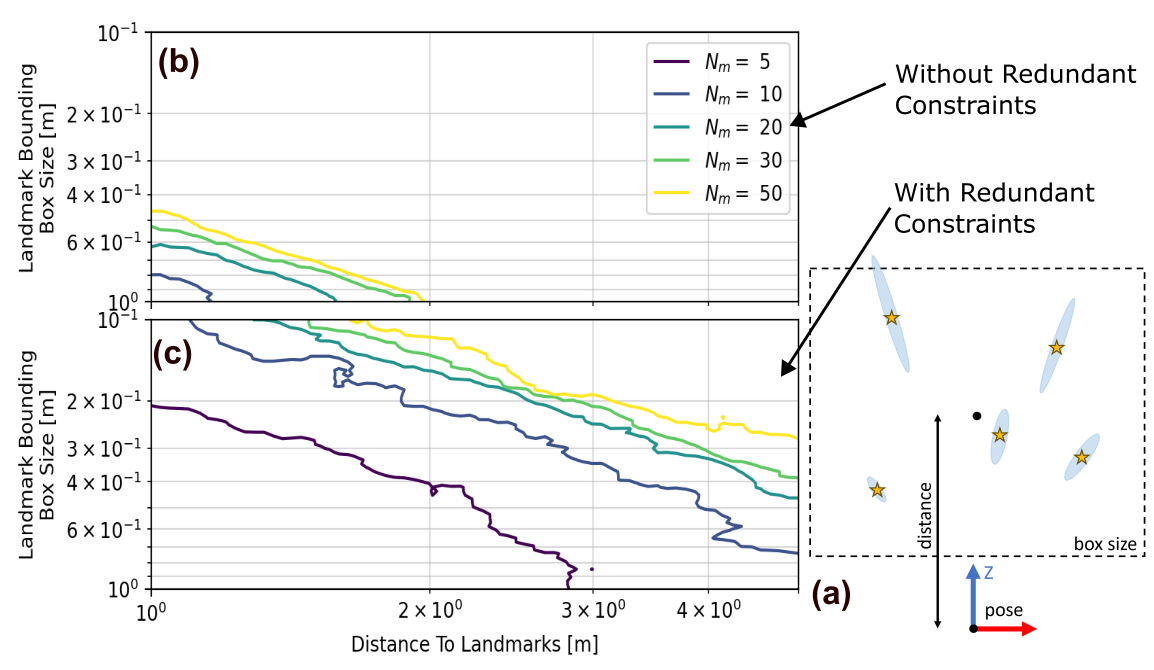
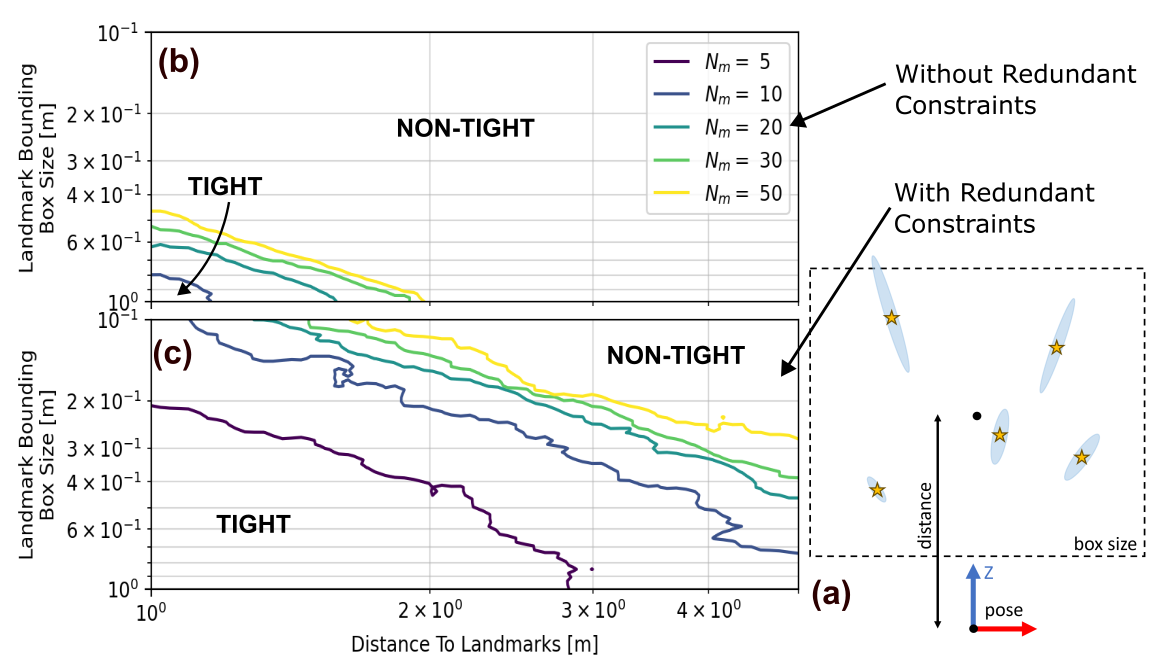
Partway through comments from second reviewer.

diff --git a/MatrixWeightedCert.tex b/MatrixWeightedCert.tex
@@ -41,6 +41,7 @@
 \newtheorem{lemma}[theorem]{Lemma}
 \newtheorem{definition}[theorem]{Definition}
 \newtheorem{corollary}[theorem]{Corollary}
+\newtheorem{proposition}[theorem]{Proposition}
 \newcommand{\llabel}[1]{\hypertarget{llineno:#1}{\linelabel{#1}}}
 \newcommand{\lref}[1]{\hyperlink{llineno:#1}{\ref*{#1}}}
 
@@ -61,7 +62,7 @@
 % <-this % stops a space
 %\thanks{Manuscript received April 19, 2021; revised August 16, 2021.}
 %<-this % stops a space   
-\thanks{Connor Holmes and Timothy D. Barfoot are with the University of Toronto Robotics Institute, University of Toronto, Toronto, Ontario, Canada, \texttt{connor.holmes@mail.utoronto.ca}, \texttt{tim.barfoot@utoronto.ca}.}}% 
+\thanks{Connor Holmes, Frederike D{\"u}mbgen, and Timothy D. Barfoot are with the University of Toronto Robotics Institute, University of Toronto, Toronto, Ontario, Canada, \texttt{connor.holmes@mail.utoronto.ca}, \texttt{tim.barfoot@utoronto.ca}.}}% 
 
 % The paper headers
 \markboth{Draft, July~2023}%
@@ -117,7 +118,7 @@ In Section \ref{sec:Simulations}, we provide an in-depth, empirical study of the
 
 \subsection{Related Work}
 
-There is a large range of problems for which certifiable methods already exist. To name a few, methods for robust state estimation \cite{yangCertifiablyOptimalOutlierRobust2023,yangTEASERFastCertifiable2021}, sensor calibration \cite{wiseCertifiablyOptimalMonocular2020,giamouConvexIterationDistanceGeometric2022}, inverse kinematics \cite{giamouConvexIterationDistanceGeometric2022}, image segmentation \cite{huAcceleratedInferenceMarkov2019}, pose-graph optimization \cite{rosenSESyncCertifiablyCorrect2019}, multiple-point-set registration \cite{chaudhuryGlobalRegistrationMultiple2015, iglesiasGlobalOptimalityPoint2020}, range-only localization \cite{dumbgenSafeSmoothCertified2023}, and range-aided SLAM \cite{papaliaCertifiablyCorrectRangeAided2023} have all been explored. 
+There is a large range of problems for which certifiable methods already exist. To name a few, methods for robust state estimation \cite{yangCertifiablyOptimalOutlierRobust2023,yangTEASERFastCertifiable2021}, sensor calibration \cite{wiseCertifiablyOptimalMonocular2020,giamouConvexIterationDistanceGeometric2022}, inverse kinematics \cite{giamouConvexIterationDistanceGeometric2022}, image segmentation \cite{huAcceleratedInferenceMarkov2019}, pose-graph optimization \cite{rosenSESyncCertifiablyCorrect2019}, multiple-point-set registration \cite{chaudhuryGlobalRegistrationMultiple2015, iglesiasGlobalOptimalityPoint2020}, range-only localization \cite{dumbgenSafeSmoothCertified2023}, planar SLAM \cite{liuConvexOptimizationBased2012}, and range-aided SLAM \cite{papaliaCertifiablyCorrectRangeAided2023} have all been explored. 
 
 Many papers have considered the conditions under which a given problem \emph{can} be certified. In particular, \cite{cifuentesLocalStabilitySemidefinite2022} shows that, under certain technical conditions, problems that have zero duality gap when unperturbed (no noise) continue to enjoy zero duality gap as long as the perturbation parameter is within a bound (i.e., the underlying problem has sufficiently low noise). For state-estimation problems, this bound is often (but not always) found empirically to be larger than noise levels encountered in practice \cite{rosenSESyncCertifiablyCorrect2019, tianDistributedCertifiablyCorrect2021, erikssonRotationAveragingStrong2018}.
 
@@ -196,13 +197,15 @@ Each edge, $(i,k) \in \EdgeSet_m $, represents a measurement of the $k^{th}$ lan
 \end{equation}
 where $ \bm{d}_{ik} $ represents the (raw) measurement of landmark $k$ from the $i^{th}$ pose variable, $\bm{m}_0^{k0}$ is the location of landmark $k$ in the global frame, $ \bm{g}(\cdot) $ is an invertible, smooth, nonlinear function, and $ \bm{\epsilon}_{d,ik} $ is a zero-mean error term having normal distribution with associated covariance matrix, $ \bm{\Sigma}_{d,ik} $. 
 
-It is often desirable to convert measurements $ \bm{d}_{ik} $ to a more convenient form by inverting the measurement model (if possible) and defining 
-\begin{align}
-	\tilde{\bm{m}}_i^{ki} &= \bm{g}^{-1}(\bm{d}_{ik})\in \mathbb{R}^3 \nonumber\\
-	&=\bm{T}_i \left[\bm{m}_0^{k0^T} ~ 1\right]^T + \bm{\epsilon}_{ik}\nonumber\\
-	&= \bm{C}_i\bm{m}_0^{k0} - \bm{t}_i + \bm{\epsilon}_{ik},
-\end{align}
-where $\bm{\epsilon}_{ik} $ represents approximately Gaussian, zero-mean noise. Regardless of whether $ \bm{\Sigma}_{d,ik} $ represents isotropic noise, the (linearly-transformed) covariance of $\bm{\epsilon}_{ik} $ is typically \textit{anisotropic} and is given by
+It is often desirable to convert measurements $ \bm{d}_{ik} $ to a more convenient form by inverting the measurement model (if possible) \rev{and defining the pseudo-measurement, $\tilde{\bm{m}}_i^{ki} = \bm{g}^{-1}(\bm{d}_{ik})$, with mean given by
+\begin{equation*}
+	\mathbb{E}(\tilde{\bm{m}}_i^{ki})={C}_i\bm{m}_0^{k0} - \bm{t}_i.
+\end{equation*} 
+The deviation from the mean, given by
+\begin{equation}
+	\bm{\epsilon}_{ik} = \tilde{\bm{m}}_i^{ki} - ({C}_i\bm{m}_0^{k0} - \bm{t}_i),
+\end{equation}
+is \emph{approximately} Gaussian with zero-mean.} Regardless of whether $ \bm{\Sigma}_{d,ik} $ represents isotropic noise, the (linearly-transformed) covariance of $\bm{\epsilon}_{ik} $ is typically \textit{anisotropic} and is given by
 \begin{equation}
 	\bm{\Sigma}_{ik} = \bm{G}^T \bm{\Sigma}_{d,ik} \bm{G},
 \end{equation}
@@ -257,8 +260,8 @@ Using the Lagrangian, we can define the (convex) dual of Problem \eqref{opt:QCQP
 \begin{equation}\label{opt:Dual}
 	\begin{array}{rl}
 		d^*=\max\limits_{\bm{H},\bm{\lambda},\bm{\rho}} &-\rho \\ 
-		s.t. & \bm{H} = \bm{Q} + \rho\bm{A}_0 +\sum\limits_{i=1}^{N_c} \lambda_i \bm{A}_i, \\
-		& \bm{H} \succeq \bm{0}.
+		s.t. & \bm{H}(\bm{\lambda},\bm{\rho}) = \bm{Q} + \rho\bm{A}_0 +\sum\limits_{i=1}^{N_c} \lambda_i \bm{A}_i, \\
+		& \bm{H}(\bm{\lambda},\bm{\rho}) \succeq \bm{0}.
 	\end{array}
 \end{equation}
 Note that the positive semidefinite condition is required to ensure that the minimization of the Lagrangian over $ \bm{z} $ is finite in \eqref{eqn:Lagrangian}. Now, we can also compute the dual of Problem \eqref{opt:Dual}, yielding an SDP relaxation of the original QCQP:
@@ -270,11 +273,21 @@ Note that the positive semidefinite condition is required to ensure that the min
 		& \bm{Z} \succeq \bm{0}.
 	\end{array}
 \end{equation}
+
+\rev{\subsection{Relaxation Tightness}}
 It is well known that if the optimal solution $ \bm{Z}^* $ satisfies $ \rank{\bm{Z}^*}=1 $ then the convex relaxation is \textit{tight} to the original QCQP.\footnote{Indeed, the addition of a constraint enforcing this condition to Problem \eqref{opt:SDP} would render it equivalent to Problem \eqref{opt:QCQP}, but the resulting optimization problem would be nonconvex.} In addition, this condition implies that the solution can be factorized as $ \bm{Z}^* = \bm{z}^* \bm{z}^{*T} $, where $ \bm{z}^* $ is the \textit{globally optimal} solution of Problem \eqref{opt:QCQP}. This result has been proved rigorously by \cite{cifuentesLocalStabilitySemidefinite2022}, among others, and depends on the inherent properties of the QCQP formulation and the fact that strong duality holds \emph{generically} for SDPs.\footnote{This is subject to the usual requirement of constraint qualification. \rev{In our case, we ensure that the SDPs that we solve satisfy the Linear Independent Constraint Qualification.}}
 
-\rev{ADD NOTE HERE ABOUT CORANK OF H}
+\rev{
+In the sequel, we will also make use of the fact that strict complementarity is a \emph{generic} property of SDPs \cite{alizadehComplementarityNondegeneracySemidefinite1997}. In our context, strict complementarity implies that
+\begin{equation}
+	 \mbox{rank}(\bm{Z}^*) + \mbox{rank}(\bm{H}^*)=n,
+\end{equation}
+where $\bm{H}^*$ represents the dual matrix at the optimal Lagrange multipliers $(\bm{\lambda}^*,\bm{\rho}^*)$.\footnote{We replace $\bm{H}(\bm{\lambda},\bm{\rho})$ with $\bm{H}$ when it is clear from the context.} In turn, the relaxation is tight if and only if $\mbox{corank}(\bm{H}^*)=1$. Empirically, we can study tightness by considering the largest eigenvalues of $\bm{Z}^*$ or by considering the smallest eigenvalues of $\bm{H}^*$.
+}
 
-This development provides two means of obtaining the globally optimal solutions to the QCQP:
+\rev{\subsection{Certification in Practice}}
+
+The preceding development provides two means of obtaining the globally optimal solutions to the QCQP:
 \begin{enumerate}
 	\item We can solve Problem \eqref{opt:SDP} directly and verify (numerically) that the rank of the optimal solution, $ \bm{Z}^* $, is equal to one. The factorization $ \bm{Z}^* = \bm{z}^* \bm{z}^{*T} $ yields the globally optimal solution, $ \bm{z}^* $, to the QCQP.
 	\item Given a candidate solution, $ \hat{\bm{z}} $, found via a fast, local-optimization method, we can determine the corresponding \textit{unique} Lagrange multipliers, $ \rho $ and $ \bm{\lambda} $, via first-order optimality conditions. Finally, if $ \bm{H} $ is positive semidefinite, then we have a \textit{certificate} of global optimality. For this reason, we refer to $ \bm{H} $ as the \textit{certificate matrix}.
@@ -287,11 +300,13 @@ Additionally, if it is known \textit{a priori} that strong duality holds for a g
 
 We once again stress that when redundant constraints are used to tighten SDP relaxations, these low-rank, fast SDP relaxation techniques are precluded.\footnote{This is due, in part, to a technical assumption in the Burer-Monteiro method that has not yet been fully explored in the literature. It may yet be possible to use these methods even with redundant constraints.} The use of redundant constraints also prevents fast certification of minima found via local methods, since the Lagrange multipliers, $ \bm{\lambda} $, are no longer uniquely determined by the first-order optimality conditions. In this case, certification effectively amounts to solving an SDP via interior-point methods, though there has been some success in applying methods such as \textit{Douglas-Rachford Splitting} \cite{yangTEASERFastCertifiable2021}. As a result, the use of redundant constraints for medium-to-large perception problems leads to runtimes that are currently prohibitive for real-time application.
 
+\rev{NOT CERTAIN THAT WE CAN ACTUALLY DO THIS NEXT THING. IF NOT, STORY NEEDS TO CHANGE.}
+
 Therefore, establishing a `threshold' below which redundant constraints are \emph{not} necessary is crucial for distinguishing the robotics problems that can be globally solved in realtime via state-of-the-art techniques. Indeed, a goal of this paper is to determine this threshold for estimation problems that involve matrix weights.
 
 
 \rev{
-\section{Estimation Uncertainty and the Dual Certificate}
+\section{Estimation Uncertainty and the Dual Certificate}\label{sec:Uncertainty}
 
 In this section, we present a set of theoretical results that allow intuitions about uncertainty in state estimation to be leveraged to understanding tightness of SDP relaxations.
 
@@ -321,20 +336,22 @@ The following Lemma establishes a connection between the dual SDP and the Laplac
 	where $\bm{H}$ is the dual certificate matrix at the solution and $\bm{L}$ is the Jacobian of the solution map, $\bm{L} = \frac{d}{d\bm{x}}\bm{\ell}(\bm{x})\vert_{\bm{x}=\bm{x}^*}$. 
 \end{lemma}
 
-We defer the proof of this Lemma to Supplementary Material \ref{SM:lemma1Proof}. Intuitively, the Lemma uses the fact that the local curvature of the two problems are equal on the feasible set to establish a connection between the FIM and the certificate matrix. 
+One implication of this Lemma is that the certificate matrix can be interpreted as an information matrix in the higher-dimensional, SDP space. We defer the proof of this Lemma to Supplementary Material \ref{SM:lemma1Proof}. Intuitively, the Lemma uses the fact that the local curvature of the two problems are equal on the feasible set to establish a connection between the FIM and the certificate matrix. 
 
 Note that the existence of the embedding, $\bm{\ell}$, is not restrictive in our context since the feasible set of the problems in this paper are manifolds.  We provide examples of how to construct such a mapping in the Supplementary Material.
 
 This Lemma provides a method to extract approximate covariance matrices from a given SDP solution to the problem. It also leads to the following Lemma, which will be important to our subsequent analysis:
-\begin{lemma}\label{thm:eig_bounds}
+\begin{proposition}\label{thm:eig_bounds}
 	Assume that the setting of Lemma \ref{thm:FisherInfo} holds. Then the following relations hold:
 	\begin{equation}
 		\sigma_{min}(\bar{\bm{H}})  \leq \frac{\sigma_{min}(\bm{\Sigma}^{-1})}{\sigma_{min}(\bm{L})^2}, 
 	\end{equation}
 	where $\sigma_{min}(\cdot)$ denotes the smallest singular value (or eigenvalue for PSD matrices) and $\bar{\bm{H}}$ is the certificate matrix with row and column corresponding to the homogenization variable removed.
-\end{lemma}
+\end{proposition}
 
-This lemma implies that tightness of the SDP relaxation is eroded as the posterior distribution becomes more uncertain. This follows from the fact that $\mbox{rank}(\bm{Z})=1$ whenever $\mbox{corank}(\bm{H})=n-1$ which is true if and only if $\bar{\bm{H}}$ has full rank.\footnote{To see why this is true, consider the first order optimality condition, $\bm{H}\bm{z}^*=\bm{0}$, and the fact that $\bm{z}^*$ is homogenized} For the same optimum, increasing uncertainty in the estimate implies that $\sigma_{min}(\bm{\Sigma}^{-1})$, and consequently $\sigma_{min}(\bar{\bm{H}})$, decrease meaning that $\bar{\bm{H}}$ is closer to being rank-deficient. Note that the $\sigma_{min}(\bm{L})^2$ is a scaling that accounts for the choice of parameterization for the unconstrained optimization.
+Note that the $\sigma_{min}(\bm{L})^2$ is a scaling that accounts for the choice of parameterization for the unconstrained optimization. However, for common choices of Lie algebra vector spaces, the eigenvalues of $\bm{L}$ are bounded between one and two.
+
+This proposition implies that tightness of the SDP relaxation is eroded as the posterior distribution becomes more uncertain. To see why this is true, recall that a necessary condition for tightness is that $\mbox{corank}(\bm{H})=1$, which is true if and only if $\bar{\bm{H}}$ has full rank. If there is large uncertainty in the poseterior estimate, then $\sigma_{min}(\bm{\Sigma}^{-1})$ decreases. Owing to Proposition \ref{thm:eig_bounds}, we see that the upper bound on $\sigma_{min}(\bar{\bm{H}})$ also decreases, pushing $\bar{\bm{H}}$ closer to being rank-deficient. 
 
 In our subsequent analyses, we will use the implication above to understand the cause of loss of relaxation tightness when anisotropic noise is introduced to our state estimation problems. 
 }
@@ -382,27 +399,16 @@ Since \rev{each separate } problem is small in dimension, its SDP relaxation can
 
 In the Supplementary Material \ref{SM:SDPStability}, we prove that Problem \eqref{opt:Localize} is always tight when measurement noise levels are low enough and the weighting matrices are non-degenerate.
 
-\subsection{Matrix-Weighted Localization with Relative-Pose Measurements}\label{sec:LocRelPose}
+\subsubsection{Introducing Relative-Pose Measurements}\label{sec:LocRelPose}
 
-We now consider the effect of introducing \textit{relative-pose measurements} described in Section \ref{sec:RelPoseMeas}. Adding the associated cost factors to Problem \eqref{opt:Localize}, we define the matrix-weighted localization problem with relative-pose measurements:
-\begin{equation}
-	\label{opt:LocalizeRelPose}
-	\hspace*{-10pt}\begin{array}{rl}
-		\min\limits_{\bm{C}_i,\bm{t}_i, \forall  i \in \VertSetP} &\sum\limits_{(i,k)\in\EdgeSet_m} \bm{e}_{ik}^T \bm{W}_{ik} \bm{e}_{ik} +\sum\limits_{(i,j)\in\EdgeSet_p}  \bm{e}_{ij}^T \bm{W}_{ij} \bm{e}_{ij}\\
-		\mbox{where} & \bm{e}_{ik} = \tilde{\bm{m}}_i^{ki} - \bm{C}_i\bm{m}_0^{k0} + \bm{t}_i , \\
-		&\bm{e}_{ij} = \vect{\tilde{\bm{T}}_{ij}\bm{T}_j - \bm{T}_i}, \\
-		\mbox{s.t.} &\bm{C}_i^T \bm{C}_i = \bm{I},~\forall i \in \VertSetP. \\
-		& \rev{(\bm{c}_i^{1})^\times\bm{c}_i^{2} - \bm{c}_i^{3} = \bm{0},~\forall i = \VertSetP, }
-	\end{array}
-\end{equation}
-We have shown in the previous section how the pose-landmark cost factors can be expressed in the form of Problem \eqref{opt:QCQP}. It remains to show that the same is possible for the relative-pose cost factors, \eqref{eqn:rel_pose_cost}. Each edge in $\EdgeSet_p$ represents a cost element of the following form:
+We note that it is quite simple to introduce \textit{relative-pose measurements} of the form described in Section \ref{sec:RelPoseMeas} to Problem \eqref{opt:Localize} by simply adding the associated cost factors to the objective. Each edge in $\EdgeSet_p$ represents a cost element of the following form:
 \begin{equation}
 	J_{ij} = \frac{1}{\sigma^2_{ij}} \left\Vert \tilde{\bm{C}}_{ij}\bm{C}_j - \bm{C}_i\right\Vert_F^2 + \frac{1}{\tau^2_{ij}} \left\Vert \tilde{\bm{t}}^{ji}_{i} - \tilde{\bm{C}}_{ij}\bm{t}_j + \bm{t}_i \right\Vert_2^2.
 \end{equation}
 
-\rev{Each element of }the cost of Problem \eqref{opt:LocalizeRelPose} \rev{is clearly a quadratic function in the optimization variables and can be }expressed in the standard \rev{homogeneous QCQP } form, as shown in Supplementary Material \ref{SM:LocCost}. Note that Problem \eqref{opt:LocalizeRelPose} is no longer separable in terms of pose variables, meaning that directly solving the SDP relaxation becomes much slower for reasonably sized problems (e.g., $N_p \geq 20$). 
+\rev{This is clearly a quadratic function in the optimization variables and can be }expressed in the standard \rev{homogeneous QCQP } form, as shown in Supplementary Material \ref{SM:LocCost}. However, the addition of such factors provides to Problem \eqref{opt:Localize} destroys the separability property, meaning that directly solving the SDP relaxation becomes much slower for reasonably sized problems (e.g., $N_p \geq 20$). 
 
-\rev{Similar to the previous section, in some problem instances noise distribution can break the tightness of the convex relaxation. We explore this further in Section \ref{sec:NoiseAnalysis}.}
+\rev{We explore the effect of these factors on tightness in Section \ref{sec:NoiseAnalysis}.}
 
 \subsection{Matrix-Weighted Landmark-based SLAM}
 
@@ -459,7 +465,7 @@ In constrast, we have opted to \emph{discover} a smaller set of redundant constr
 
 We applied the constraint learning method to small instances of the problems defined above. We then interpreted the numerical, learned constraints and cast them as equations that are valid given the properties of $\mbox{SO}(3)$ and could be applied to problems of any size (any number of landmarks and poses). Finally, we selected a subset of these constraints that were empirically found to lead to tightness across various problem instances.
 
-As a result we found that the following set of redundant constraints could be used to tighten the localization problems (Problems \eqref{opt:Localize} and \eqref{opt:LocalizeRelPose}):
+As a result, we found that the following set of redundant constraints could be used to tighten Problem \eqref{opt:Localize}:
 \begin{subequations}\label{eqn:so3_constraints}
 	\begin{flalign}
 		\bm{C}_i \bm{C}_i^T - \bm{I} = \bm{0},
@@ -543,7 +549,7 @@ We also see that for any given level of noise, increasing anisotropicity eventua
 	\label{fig:ellipsoid_align}
 \end{figure}
 
-It is known that the tightness of SDP relaxations of least-squares perception problems depends on the level of noise in the measurements \cite{brialesConvexGlobal3D2017, rosenSESyncCertifiablyCorrect2019, cifuentesLocalStabilitySemidefinite2022}. For the case of rotational averaging, tightness of the relaxation has been linked to the magnitude of \textit{residual uncertainty} of pose estimates \cite{erikssonRotationAveragingStrong2018}. Here, we also observe that the \emph{orientation} of the uncertainty ellipsoids plays a key role in SDP tightness. This can be seen in Figure \ref{fig:wahba_axis_bnd}, in which two experiments are performed with respect to ellipsoid orientation: the random rotational perturbation of ellipsoid alignment and the `fanning out' of ray-aligned ellipsoids as the landmarks become more spread out (see diagrams in Figure \ref{fig:wahba_axis_bnd}).
+It is known that the tightness of SDP relaxations of least-squares perception problems depends on the level of noise in the measurements \cite{brialesConvexGlobal3D2017, rosenSESyncCertifiablyCorrect2019, cifuentesLocalStabilitySemidefinite2022}. For the case of rotational averaging, tightness of the relaxation has been linked to the magnitude of \textit{residual uncertainty} of pose estimates \cite{erikssonRotationAveragingStrong2018}. Here, we also observe that the \emph{orientation} of the uncertainty ellipsoids plays a key role in SDP tightness. This can be seen in Figure \ref{fig:wahba_axis_bnd}, in which two experiments are performed with respect to ellipsoid orientation: the random rotational perturbation of ellipsoid alignment \rev{(Figure \ref{fig:wahba_axis_bnd}(a))} and the `fanning out' of ray-aligned ellipsoids as the landmarks become more spread out \rev{(Figure \ref{fig:wahba_axis_bnd}(b))}.
 
 \begin{figure}[!b]
 	\centering
@@ -643,15 +649,15 @@ Recalling the definition of the certificate matrix from the dual problem, \eqref
 
 Let $\bm{x} = \bm{x}^*+\delta\bm{x} \in \mathcal{U}$ be a perturbation of the optimal solution, $\bm{x}^*$, of Problem \eqref{opt:unconstrained}. Let $\bm{z}= \bm{\ell}(x)$. Since $\bm{z}$ is in the feasible set of Problem \eqref{opt:QCQP}, the Lagrangian at $\bm{z}$ is equal to the objective of Problem \eqref{opt:QCQP} and, by assumption, we have
 \begin{equation*}
-	\mathcal{L}(\bm{z},\bm{\lambda}, \rho)=\mathcal{L}(\bm{\ell}(\bm{x}),\bm{\lambda}, \rho) = -\log(p(\bm{x} \vert \bm{\mathcal{D}})).
+	\mathcal{L}(\bm{z},\bm{\lambda}, \rho) =\mathcal{L}(\bm{\ell}(\bm{x}),\bm{\lambda}, \rho)=\bm{\ell}(\bm{x})^T\bm{Q}\bm{\ell}(\bm{x}) = -\log(p(\bm{x} \vert \bm{\mathcal{D}})).
 \end{equation*}
-Note that $\bm{z}^* = \bm{\ell}(x^*)$, since the $\bm{\ell}$ is diffeomorphic (i.e., bijective) on the feasible set and the objective functions are locally equal. We proceed by considering second-order Taylor expansions the Lagrangian about $\bm{z}^*$ \cite[Theorem 12.5]{nocedalNumericalOptimization2006}. Letting  $\bm{H}= \bm{H}(\bm{\lambda}^*, \rho^*)$ to simplify notation and $\delta\bm{z} = \bm{z} - \bm{z}^*$, we have
+Note that $\bm{z}^* = \bm{\ell}(x^*)$, since the $\bm{\ell}$ is diffeomorphic (i.e., bijective) on the feasible set and the objective functions are locally equal. We proceed by considering second-order Taylor expansions of the Lagrangian about $\bm{z}^*$.\footnote{\rev{As in \cite[Theorem 12.5]{nocedalNumericalOptimization2006} we leave the Lagrange multipliers fixed}} Letting  $\bm{H}= \bm{H}(\bm{\lambda}^*, \rho^*)$ to simplify notation and $\delta\bm{z} = \bm{z} - \bm{z}^*$, we have
 \begin{align*}
-	\mathcal{L}(\bm{z},\bm{\lambda}^*, \rho^*) &\approx \bm{z}^T \bm{H} \bm{z} - \rho^* \\ 
+	\mathcal{L}(\bm{z},\bm{\lambda}^*, \rho^*) & =\bm{z}^T \bm{H} \bm{z} - \rho^* \\ 
 	&= (\bm{z}^*+\delta\bm{z})^T \bm{H} (\bm{z}^*+\delta\bm{z}) - \rho^* \\ 
-	&= \bm{z}^{*T} \bm{H}\bm{z}^{*} -\rho^* + \delta\bm{z}^T \bm{H}\delta\bm{z}
+	&= -\rho^* + \delta\bm{z}^T \bm{H}\delta\bm{z}
 \end{align*}
-where the third line follows from the first-order necessary optimality conditions ($\bm{H} \bm{z}^*=\bm{0}$). By smoothness of the embedding, we have $\delta\bm{z} = \bm{L} \delta\bm{x} = \bm{L}(\bm{x}-\bm{x}^*)$. Plugging this into the equation above, we get
+where the third line follows from the first-order necessary optimality conditions ($\bm{H} \bm{z}^*=\bm{0}$). By smoothness of the embedding, we have $\delta\bm{z} \approx \bm{L} \delta\bm{x} = \bm{L}(\bm{x}-\bm{x}^*)$. Plugging this into the equation above, we get
 \begin{equation*}
 	-\log(p(\bm{x} \vert \bm{\mathcal{D}})) \approx c + \delta\bm{x}^T \bm{L}^T\bm{H}\bm{L}\delta\bm{x},
 \end{equation*}
@@ -668,24 +674,24 @@ In this section, we show an equivalent unconstrained parameterization of the sin
 
 Let $\bm{x}= \begin{bmatrix} \bm{x}_1^T & \bm{x}_2^T\end{bmatrix}^T \in \mathbb{R}^3\times\mathbb{R}^3$ be the unconstrained parameter. We relate this parameter to the variables given in \ref{opt:Localize} as follows:
 \begin{equation}
-	\bm{C}_1 = \exp(\bm{x}_1^\wedge)\bar{\bm{C}}_1, \quad \bm{t}_1 = \bm{x}_2,
+	\bm{C}_1 = \exp(\bm{x}_1^\wedge)\bar{\bm{C}}_1, \quad \bm{t}_1 = \bm{x}_2 + \bar{\bm{t}}_1,
 \end{equation} 
-where $\bar{\bm{C}}_1$ is the optimal value of $\bm{C}_1$ for a given problem instance, $\exp$ is the matrix exponential and $^\wedge$ is the skew-symmetric operator (see \cite{barfoot2011state} for details). We can rewrite Problem \ref{opt:Localize} as the unconstrained problem,
+where $\bar{\bm{C}}_1$ and $\bar{\bm{t}}_1$ are the optimal values of $\bm{C}_1$ and $\bm{t}_1$ (respectively) for a given problem instance, $\exp$ is the matrix exponential and $^\wedge$ is the skew-symmetric operator (see \cite{barfoot2011state} for details). We can rewrite Problem \ref{opt:Localize} as the unconstrained problem,
 \begin{equation}
 	\label{opt:LocalizeUnc}
 	\begin{array}{rl}
 		\min\limits_{\bm{x} \in \mathbb{R}^6} &\sum\limits_{k=1}^N \bm{e}_{k}^T \bm{W}_{k} \bm{e}_{k} \\
-		\mbox{where} & \bm{e}_{k} = \tilde{\bm{m}}_1^{k1} - \exp(\bm{x}_1^\wedge)\bar{\bm{C}}_1\bm{m}_0^{k0} + \bm{x}_2,
+		\mbox{where} & \bm{e}_{k} = \tilde{\bm{m}}_1^{k1} - \exp(\bm{x}_1^\wedge)\bar{\bm{C}}_1\bm{m}_0^{k0} + \bm{x}_2 + \bar{\bm{t}}_1,
 	\end{array}
 \end{equation}
 
 From \eqref{eqn:locVar}, we see that the embedding map is given by
 \begin{equation}
 	\bm{z}=\bm{\ell}(\bm{x}) = \begin{bmatrix}
-		\vect{\exp(\bm{x}_1^\wedge)\bar{\bm{C}}_1}\\ \bm{x}_2 \\ 1
+		\vect{\exp(\bm{x}_1^\wedge)\bar{\bm{C}}_1}\\ \bm{x}_2 + \bar{\bm{t}}_1 \\ 1
 	\end{bmatrix}.
 \end{equation}
-By construction, this map is bijective with its image in a neighborhood around $(\bar{\bm{C}}_1, \bm{0})$ and the cost functions of Problems \ref{opt:Localize} and \ref{opt:LocalizeUnc} are equal under the map. Finally, the map is smooth by the properties of Lie groups and its Jacobian is given by
+By construction, this map is bijective with its image in a neighborhood around $(\bar{\bm{C}}_1, \bar{\bm{t}}_1)$ and the cost functions of Problems \ref{opt:Localize} and \ref{opt:LocalizeUnc} are equal under the map. Finally, the map is smooth by the properties of Lie groups and its Jacobian is given by
 \begin{equation}
 	\bm{L} = \begin{bmatrix}
 		(\bm{I}\otimes\bar{\bm{C}}_1) \bar{\bm{G}}_d & \bm{0}\\
@@ -693,27 +699,27 @@ By construction, this map is bijective with its image in a neighborhood around $
 		0 & 0
 	\end{bmatrix},
 \end{equation}
-where $\bar{\bm{G}}_d$ is a matrix of the vectorized generators of the Lie algebra (see equations 7-10 of \cite{dellaertShonanRotationAveraging2020} for a detailed derivation of the top-left block).
+where $\bar{\bm{G}}_d$ is a matrix of the vectorized generators of the Lie algebra (see equations 7-10 of \cite{dellaertShonanRotationAveraging2020} for a detailed derivation of the top-left block). In this example it is immediate that the minimum singular value of $\bm{L}$ is exactly unity and, if applying Theorem \ref{thm:FisherInfo}, we have that minimum eigenvalue of the parameterized Information matrix exactly upper bounds the minimum eigenvalue of the certificate matrix.
 
-\subsection{Proof of Lemma \ref{thm:eig_bounds}}\label{SM:lemma2Proof}
+\subsection{Proof of Proposition \ref{thm:eig_bounds}}\label{SM:lemma2Proof}
 
 \begin{proof}
 By assumption, we have $\bm{\Sigma}^{-1} = \bm{L}^T\bm{H}\bm{L}$. Without loss of generality, assume that the homogenizing variable of $\bm{z}$ is the last element in the vector. Since this element is always equal to one, the Jacobian of the feasible set mapping is given by $\bm{L} = \begin{bmatrix}
-	\bm{L}'^T & \bm{0}^T
-\end{bmatrix}^T$. It follows that ${\Sigma}^{-1} = \bm{L}'^T\bar{\bm{H}}\bm{L}'$.
+	\bar{\bm{L}}^T & \bm{0}^T
+\end{bmatrix}^T$. It follows that ${\Sigma}^{-1} = \bar{\bm{L}}^T\bar{\bm{H}}\bar{\bm{L}}$.
 
-Since $\bm{\ell}$ is injective, $\bm{L}'$ has full column rank. It follows that\footnote{See proof of Corollary 2.4.4 in \cite{golubMatrixComputations2013}.}
+Since $\bm{\ell}$ is injective, $\bar{\bm{L}}$ has full column rank. It follows that\footnote{See proof of Corollary 2.4.4 in \cite{golubMatrixComputations2013}.}
 \begin{equation}\label{eqn:normSandwich}
-	\sigma_{min}(\bm{L}') \Vert\bm{v}\Vert \leq  \Vert\bm{L}'\bm{v}\Vert \leq \sigma_{max}(\bm{L}')\Vert\bm{v}\Vert,
+	\sigma_{min}(\bar{\bm{L}}) \Vert\bm{v}\Vert \leq  \Vert\bar{\bm{L}}\bm{v}\Vert \leq \sigma_{max}(\bar{\bm{L}})\Vert\bm{v}\Vert,
 \end{equation}
-where $\Vert\cdot\Vert$ denotes the Euclidean norm. We proceed using the Raleigh quotient characterization of eigenvalues, noting that both $\Sigma$
+where $\Vert\cdot\Vert$ denotes the Euclidean norm. We proceed using the Raleigh quotient characterization of eigenvalues, noting that both $\Sigma^{-1}$ and $\bar{\bm{H}}$ are positive definite matrices.
 \begin{align*}
 	\sigma_{min}(\bar{\bm{H}}) &= \min\limits_{\bm{y}\in\mathbb{R}^n} \frac{\bm{y}^T \bar{\bm{H}} \bm{y}}{\Vert\bm{y}\Vert^2} 
-	\leq \min\limits_{\substack{\bm{y}=\bm{L}'\bm{v}\\\bm{v}\in\mathbb{R}^p}} \frac{\bm{y}^T \bar{\bm{H}} \bm{y}}{\Vert\bm{y}\Vert^2} \\ 
-	&\leq \min\limits_{\bm{v}\in\mathbb{R}^p} \frac{\bm{v}^T \bm{L}'^T\bar{\bm{H}}\bm{L}' \bm{v}}{\Vert\bm{v}\Vert^2 } \frac{1}{\sigma_{min}(\bm{L}')^2} 
-	= \frac{\sigma_{min}{\bm{\Sigma}^{-1}}}{\sigma_{min}(\bm{L}')^2},
+	\leq \min\limits_{\substack{\bm{y}=\bar{\bm{L}}\bm{v}\\\bm{v}\in\mathbb{R}^p}} \frac{\bm{y}^T \bar{\bm{H}} \bm{y}}{\Vert\bm{y}\Vert^2} \\ 
+	&\leq \min\limits_{\bm{v}\in\mathbb{R}^p} \frac{\bm{v}^T \bar{\bm{L}}^T\bar{\bm{H}}\bar{\bm{L}} \bm{v}}{\Vert\bm{v}\Vert^2 } \frac{1}{\sigma_{min}(\bar{\bm{L}})^2} 
+	= \frac{\sigma_{min}{\bm{\Sigma}^{-1}}}{\sigma_{min}(\bar{\bm{L}})^2},
 \end{align*}
-where the first inequality follows from the fact that we are restricting the feasible set of the optimization and the second follows from \eqref{eqn:normSandwich}. Finally, note that $\sigma_{min}(\bm{L}') = \sigma_{min}(\bm{L})$
+where the first inequality follows from the fact that we are restricting the feasible set of the optimization and the second follows from \eqref{eqn:normSandwich}. Finally, note that $\sigma_{min}(\bar{\bm{L}}) = \sigma_{min}(\bm{L})$
 
 \end{proof}
 
@@ -732,8 +738,8 @@ Re-organizing terms, we see that this cost element can be written as $J_{ik}~=~\
 \begin{equation*}
 	\resizebox{0.98\columnwidth}{!}{$\begin{bmatrix}
 			\bm{m}_0^{k0}\bm{m}_0^{k0^T} \otimes \bm{W}_k  & -\bm{m}_0^{k0}\otimes\bm{W}_k & -\bm{m}_0^{k0}\otimes\bm{W}_k\tilde{\bm{m}}_i^{ki}\\
-			 -\bm{m}_0^{k0^T}\otimes\bm{W}_k & \bm{W}_k & -\bm{W}_k\tilde{\bm{m}}_i^{ki} \\
-			-\bm{m}_0^{k0^T}\otimes\tilde{\bm{m}}_i^{ki^T}\bm{W}_k & -\tilde{\bm{m}}_i^{ki^T}\bm{W}_k & \tilde{\bm{m}}_i^{ki^T}\bm{W}_k\tilde{\bm{m}}_i^{ki}
+			 -\bm{m}_0^{k0^T}\otimes\bm{W}_k & \bm{W}_k & \bm{W}_k\tilde{\bm{m}}_i^{ki} \\
+			-\bm{m}_0^{k0^T}\otimes\tilde{\bm{m}}_i^{ki^T}\bm{W}_k & \tilde{\bm{m}}_i^{ki^T}\bm{W}_k & \tilde{\bm{m}}_i^{ki^T}\bm{W}_k\tilde{\bm{m}}_i^{ki}
 		\end{bmatrix}.$}
 \end{equation*}
 
@@ -910,7 +916,7 @@ and we have re-indexed the landmarks from $1$ to $N$ for convenience. We also de
 	\end{bmatrix}.
 \end{equation*}
 Since $\bm{W}$ is full rank, we are required to show that $\rank{\bm{A}} = 12$. 
-Recall that the spectrum of a Kronecker product, $\bm{A}\otimes\bm{B}$, is given by $\left\{ \mu\lambda,~ \forall \mu \in \sigma(\bm{A}),~ \lambda \in \sigma(\bm{B})\right\}$, where $\sigma()$ denotes the spectrum of eigenvalues.
+Recall that the \rev{singular values} of a Kronecker product, $\bm{A}\otimes\bm{B}$, is given by $\left\{ \mu\lambda,~ \forall \mu \in \sigma(\bm{A}),~ \lambda \in \sigma(\bm{B})\right\}$, where $\sigma()$ denotes \rev{the set of singular values}.
 Therefore, $\rank{\bm{A}} = 12$ is equivalent to the fact that $\rank{\bm{B}}=4$. We can subtract the first row from the remaining rows of $\bm{B}$ without changing its row rank. Thus,
 \begin{equation*}
 	\rank{\bm{B}} = \rank{\begin{bmatrix}
@@ -922,9 +928,9 @@ Therefore, $\rank{\bm{A}} = 12$ is equivalent to the fact that $\rank{\bm{B}}=4$
 		(\bm{m}_0^{N0}-\bm{m}_0^{10})^T 
 	\end{bmatrix}.\\	
 \end{equation*}
-Since the landmarks are not coplanar by assumption, $\rank{\bm{D}}=3$ and, since $\rank{\bm{B}} = \rank{\bm{D}} + 1$, condition \ref{thm1:cond3}) holds.
+Since the landmarks are not coplanar by assumption, $\rank{\bm{D}}=3$ and, since $\rank{\bm{B}} = \rank{\bm{D}} + 1$, condition \ref{thm1:cond3} holds.
  
-Finally, the ACQ holds at any feasible point by the fact that $\mbox{O}(3)$ defines a radical ideal (c.f. \cite{wiseCertifiablyOptimalMonocular2020,cifuentesLocalStabilitySemidefinite2022}), giving the final condition of Theorem 3.9.
+Finally, the ACQ holds at any feasible point \rev{ by the argument given in \cite{cifuentesLocalStabilitySemidefinite2022}}, giving the final condition of Theorem 3.9.
 \end{proof}
 
 We conclude this section with two remarks. First, the assumption that the weight matrices are positive definite (i.e., not degenerate) is not strictly required as long as $\rank{\bm{A}^T \bm{W} \bm{A}}=12$ is guaranteed by sufficient measurements. As mentioned above, degenerate weight matrices were encountered in \cite{brialesConvexGlobal3D2017} when measurements of lines and planes were considered. Second, the extension of this proof to include relative-pose measurements should be straightforward since it has already been proved when \emph{only} relative-pose measurements are considered (at least for the case of a weakly connected measurement graph) \cite{rosenSESyncCertifiablyCorrect2019}.
